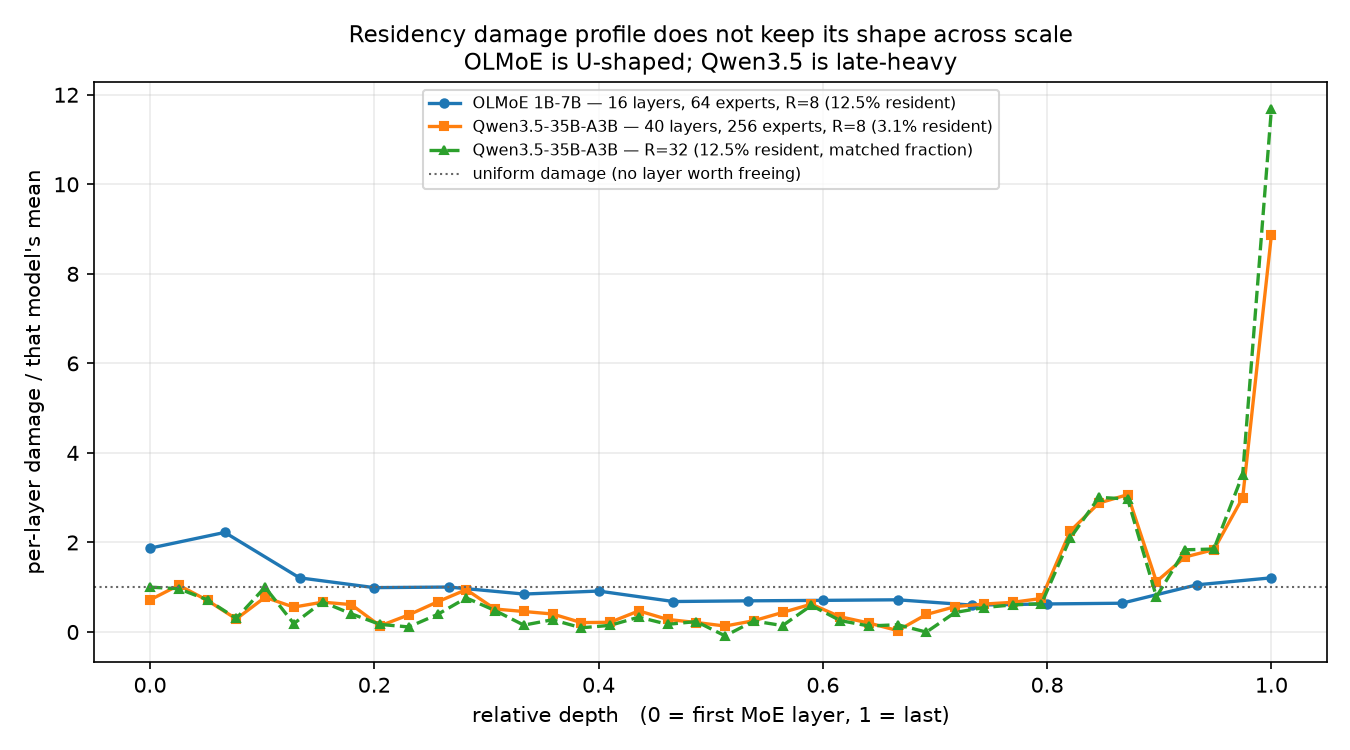
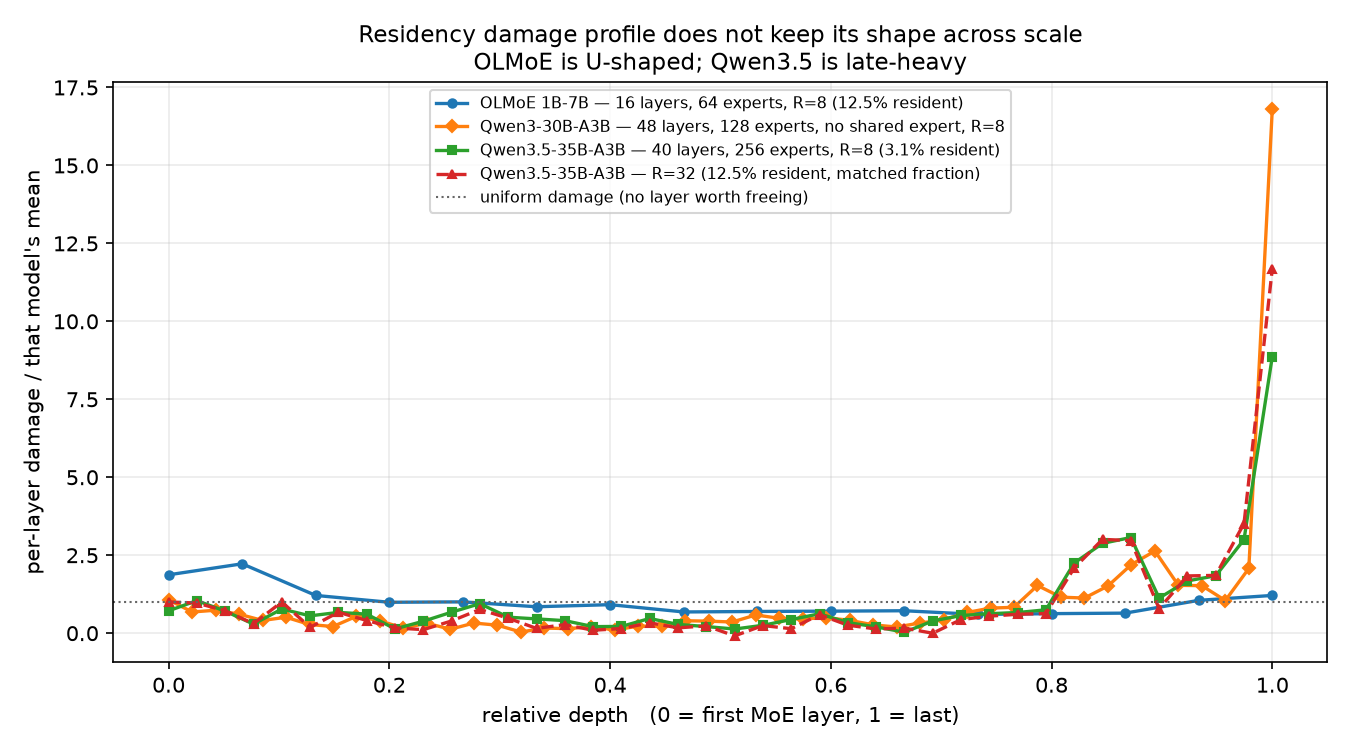
Three-model profile: the head premium is stable, the tail is not, and neither predicts free sets
Adding Qwen3-30B gives per-layer damage profiles at 64, 128 and 256 experts, each normalised by its
own central-half mean.

The first two layers sit at 2.69x, 2.60x and 2.89x of the middle -- essentially constant across a 4x
range of expert count and models of 16 to 48 layers. The last two sit at 1.49x, 28.08x and 19.46x.
So "both ends are elevated", which is how this was described earlier, understates the asymmetry: a
modest head premium generalises, and whether the tail dominates does not.

The profiles also fail to predict the free-set orderings. Qwen3-30B has the most extreme tail of the
three at 28x and nonetheless prefers {first2,last2} over {last4}, while Qwen3.5 at 19x prefers
tail-only. A reader taking the profile at face value would pick the wrong set on the model where the
profile looks most decisive. That is the third independent instance here of solo damage not
predicting joint value, after the three recorded in the OLMoE results.

diff --git a/analysis/ple/plot_profile_transfer.py b/analysis/ple/plot_profile_transfer.py
@@ -32,8 +32,8 @@ OLMOE = [0.2178, 0.2588, 0.1408, 0.1153, 0.1168, 0.0986, 0.1064, 0.0792,
          0.0810, 0.0822, 0.0837, 0.0698, 0.0729, 0.0748, 0.1225, 0.1408]
 
 
-def qwen_profile(R=8):
-    p = os.path.join(ABLATIONS, "qwen35_residency_suite.csv")
+def qwen_profile(R=8, fname="qwen35_residency_suite.csv"):
+    p = os.path.join(ABLATIONS, fname)
     rows = list(csv.DictReader([l for l in open(p) if not l.lstrip().lstrip('"').startswith("#")]))
     d = {r["cell"]: float(r["bpb"]) for r in rows}
     free = d["free_baseline"]
@@ -44,10 +44,13 @@ def qwen_profile(R=8):
 
 def main():
     q8, q32 = qwen_profile(8), qwen_profile(32)
+    q3 = qwen_profile(8, "qwen35_residency_suite_q3.csv")   # Qwen3-30B, 128 experts, no shared expert
     fig, ax = plt.subplots(figsize=(9, 5))
-    for prof, lbl, style in ((OLMOE, "OLMoE 1B-7B — 16 layers, 64 experts, R=8 (12.5% resident)", "-o"),
-                             (q8, "Qwen3.5-35B-A3B — 40 layers, 256 experts, R=8 (3.1% resident)", "-s"),
-                             (q32, "Qwen3.5-35B-A3B — R=32 (12.5% resident, matched fraction)", "--^")):
+    for prof, lbl, style in (
+            (OLMOE, "OLMoE 1B-7B — 16 layers, 64 experts, R=8 (12.5% resident)", "-o"),
+            (q3, "Qwen3-30B-A3B — 48 layers, 128 experts, no shared expert, R=8", "-D"),
+            (q8, "Qwen3.5-35B-A3B — 40 layers, 256 experts, R=8 (3.1% resident)", "-s"),
+            (q32, "Qwen3.5-35B-A3B — R=32 (12.5% resident, matched fraction)", "--^")):
         n = len(prof)
         mean = sum(prof) / n
         x = [i / (n - 1) for i in range(n)]
@@ -64,6 +67,8 @@ def main():
     fig.tight_layout()
     fig.savefig(out, dpi=150)
     print(f"  OLMoE   ends/middle {(OLMOE[0]+OLMOE[1]+OLMOE[-2]+OLMOE[-1])/4 / (sum(OLMOE[5:11])/6):.2f}x")
+    n3=len(q3); m3=sum(q3[n3//4:3*n3//4])/len(q3[n3//4:3*n3//4])
+    print(f"  Qwen3-30B first2/middle {(q3[0]+q3[1])/2/m3:.2f}x  last2/middle {(q3[-2]+q3[-1])/2/m3:.2f}x")
     print(f"  Qwen R8 ends/middle {(q8[0]+q8[1]+q8[-2]+q8[-1])/4 / (sum(q8[13:27])/14):.2f}x")
     print(f"  Qwen R8 first2/middle {(q8[0]+q8[1])/2 / (sum(q8[13:27])/14):.2f}x  "
           f"last2/middle {(q8[-2]+q8[-1])/2 / (sum(q8[13:27])/14):.2f}x")

diff --git a/results/ablations/qwen35_RESULTS.md b/results/ablations/qwen35_RESULTS.md
@@ -435,3 +435,29 @@ so the R^-0.59 fit in section 5A is refitted on the valid points only.
 `residency_qwen.assert_valid_R` now raises on R < k, and `qwen_cost_curve.py` skips those points, so
 the configuration cannot be measured again by accident. The rows are annotated in the CSVs rather
 than deleted, since a silently shorter table invites the same experiment a second time.
+
+
+## 12. Three-model profile: a stable head, a wildly variable tail
+
+With Qwen3-30B added, the per-layer damage profiles can be compared across 64, 128 and 256 experts.
+Each is normalised by its own central-half mean, since absolute damages differ by ~70x.
+
+| model | experts | first 2 / middle | last 2 / middle |
+|---|---|---|---|
+| OLMoE 1B-7B | 64 | **2.69x** | 1.49x |
+| Qwen3-30B-A3B | 128 | **2.60x** | **28.08x** |
+| Qwen3.5-35B-A3B | 256 | **2.89x** | 19.46x |
+
+The input end is remarkably stable: 2.6-2.9x the middle on all three models, across a 4x range of
+expert count and 16-to-48 layers. The output end is not stable at all -- 1.5x, 28x, 19x. So the
+earlier framing of "both ends are elevated" understates the asymmetry. What generalises is a modest,
+consistent premium on the first two layers; what varies by model is whether the tail dominates.
+
+This also does **not** explain the free-set flip in section 7. Qwen3-30B has the most extreme tail of
+the three (28x) and yet `{first2, last2}` beats `{last4}` there, while Qwen3.5 with a milder tail
+(19x) prefers tail-only. A profile that says "the tail is 28x the middle" would predict the opposite.
+That is the third independent instance in this program of solo per-layer damage failing to predict
+joint free-set value, after the three recorded in the OLMoE work.
+
+Figure: [`results/phase0/figures/residency_profile_transfer.png`](../phase0/figures/residency_profile_transfer.png).
+Producer: `analysis/ple/plot_profile_transfer.py`.
